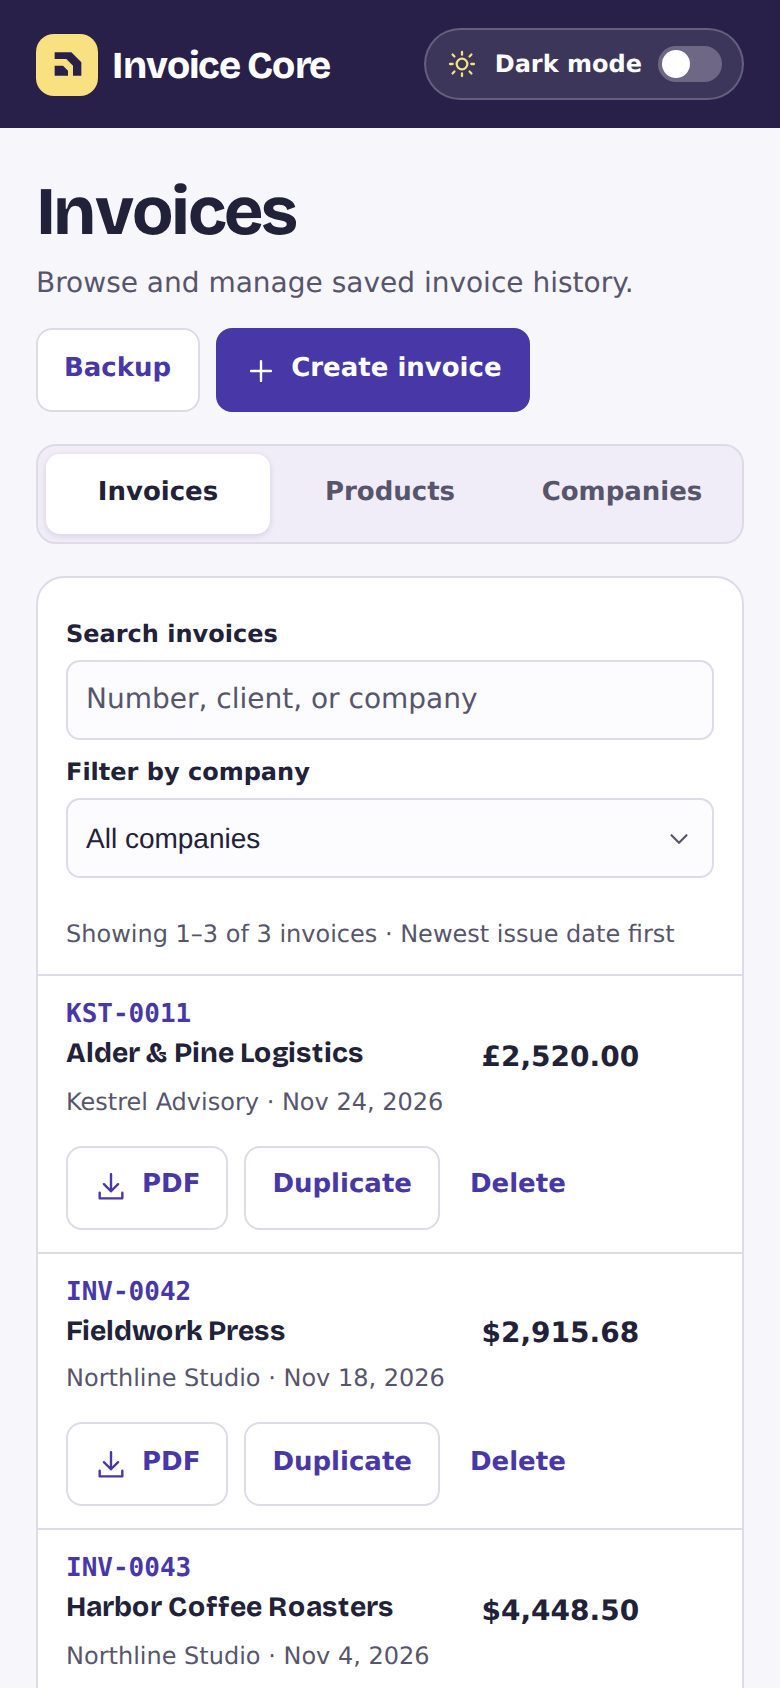
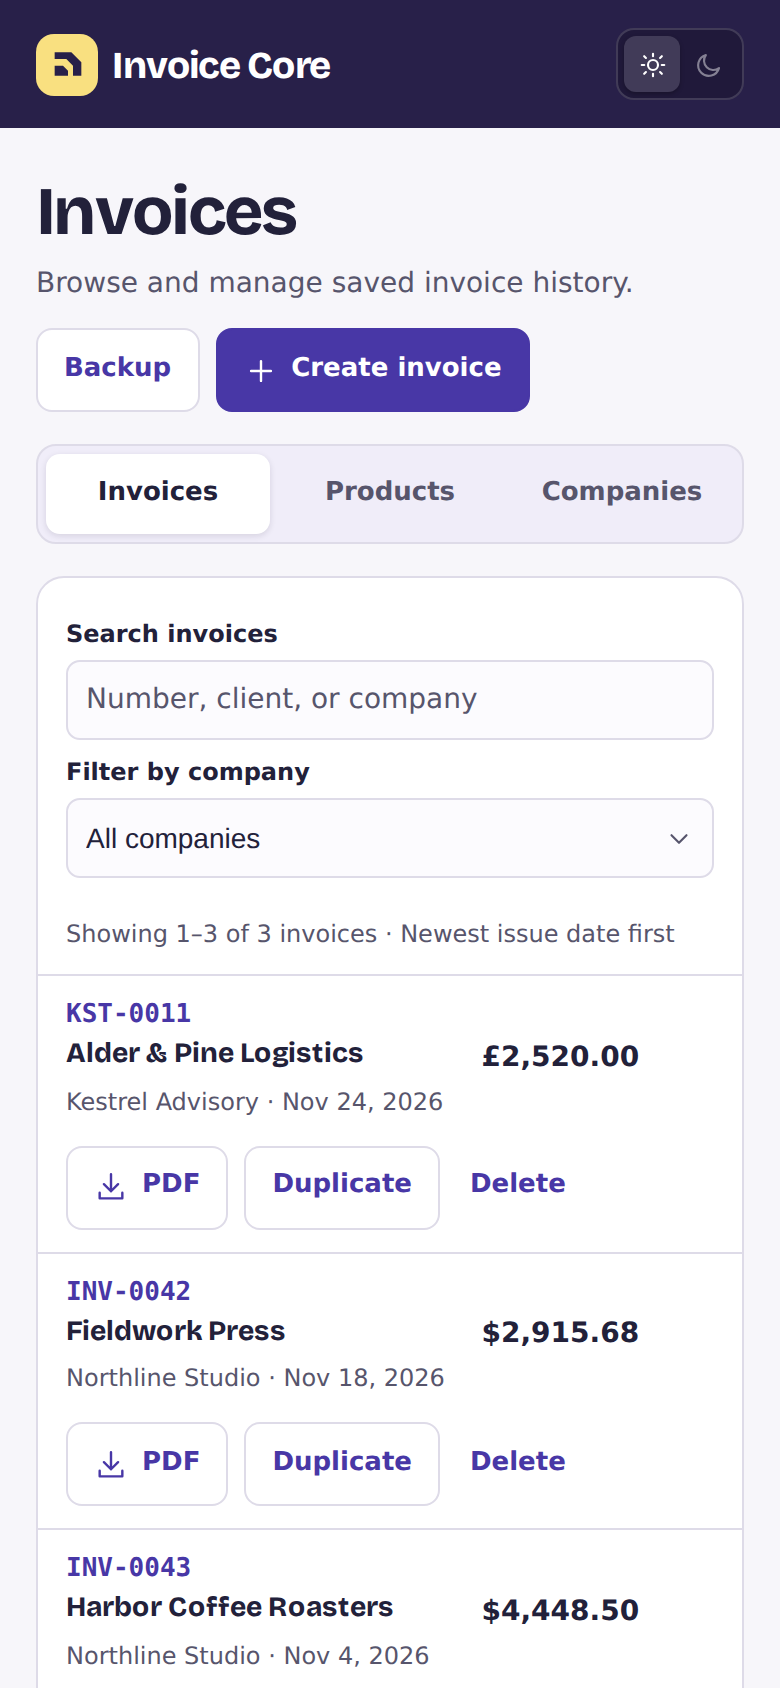
style(ui): refine topbar dark mode switch to minimalist toggle
Replace the outer pill-in-pill Dark mode control in the topbar with a compact 36x64px rounded-[9px] 2-icon sliding toggle matching the Dispatch Desk mark while keeping accessible switch semantics and refreshed screenshots.

Refs #65

Changed region(s): [[0.5538, 0.0, 0.9538, 0.0616]]

diff --git a/src/modules/invoice/InvoiceWorkspace.tsx b/src/modules/invoice/InvoiceWorkspace.tsx
@@ -341,18 +341,26 @@ export function InvoiceWorkspace() {
               type="button"
               role="switch"
               aria-checked={isDark}
-              className="inline-flex min-h-9 flex-none items-center gap-2 rounded-full border border-white/20 bg-white/10 px-2.5 py-1 text-xs font-bold whitespace-nowrap text-white transition-colors duration-150 hover:bg-white/20 motion-reduce:transition-none"
+              aria-label="Dark mode"
+              title={isDark ? 'Switch to light mode' : 'Switch to dark mode'}
+              className="group relative inline-grid h-9 w-16 flex-none grid-cols-2 items-center rounded-[9px] border border-white/15 bg-black/20 p-[3px] transition-colors duration-150 hover:border-white/25 hover:bg-black/30 motion-reduce:transition-none"
               onClick={toggleTheme}
             >
-              <Icon name={isDark ? 'moon' : 'sun'} className="size-4 flex-none text-ic-stamp" />
-              <span className="max-[380px]:sr-only">Dark mode</span>
               <span
                 aria-hidden="true"
-                className={`inline-flex h-[18px] w-8 flex-none items-center rounded-full p-0.5 transition-colors duration-150 motion-reduce:transition-none ${isDark ? 'bg-ic-stamp/35' : 'bg-white/25'}`}
+                className={`pointer-events-none absolute top-[3px] left-[3px] size-7 rounded-md bg-white/15 shadow-[0_1px_2px_rgb(0_0_0/25%)] transition-transform duration-200 ease-out motion-reduce:transition-none ${isDark ? 'translate-x-full' : 'translate-x-0'}`}
+              />
+              <span
+                aria-hidden="true"
+                className={`relative z-1 grid size-7 place-items-center transition-colors duration-150 motion-reduce:transition-none ${isDark ? 'text-white/45 group-hover:text-white/75' : 'text-white'}`}
               >
-                <span
-                  className={`size-3.5 rounded-full transition-transform duration-150 motion-reduce:transition-none ${isDark ? 'translate-x-3.5 bg-ic-stamp' : 'translate-x-0 bg-white'}`}
-                />
+                <Icon name="sun" className="size-[15px] flex-none" />
+              </span>
+              <span
+                aria-hidden="true"
+                className={`relative z-1 grid size-7 place-items-center transition-colors duration-150 motion-reduce:transition-none ${isDark ? 'text-white' : 'text-white/45 group-hover:text-white/75'}`}
+              >
+                <Icon name="moon" className="size-[15px] flex-none" />
               </span>
             </button>
           )}
